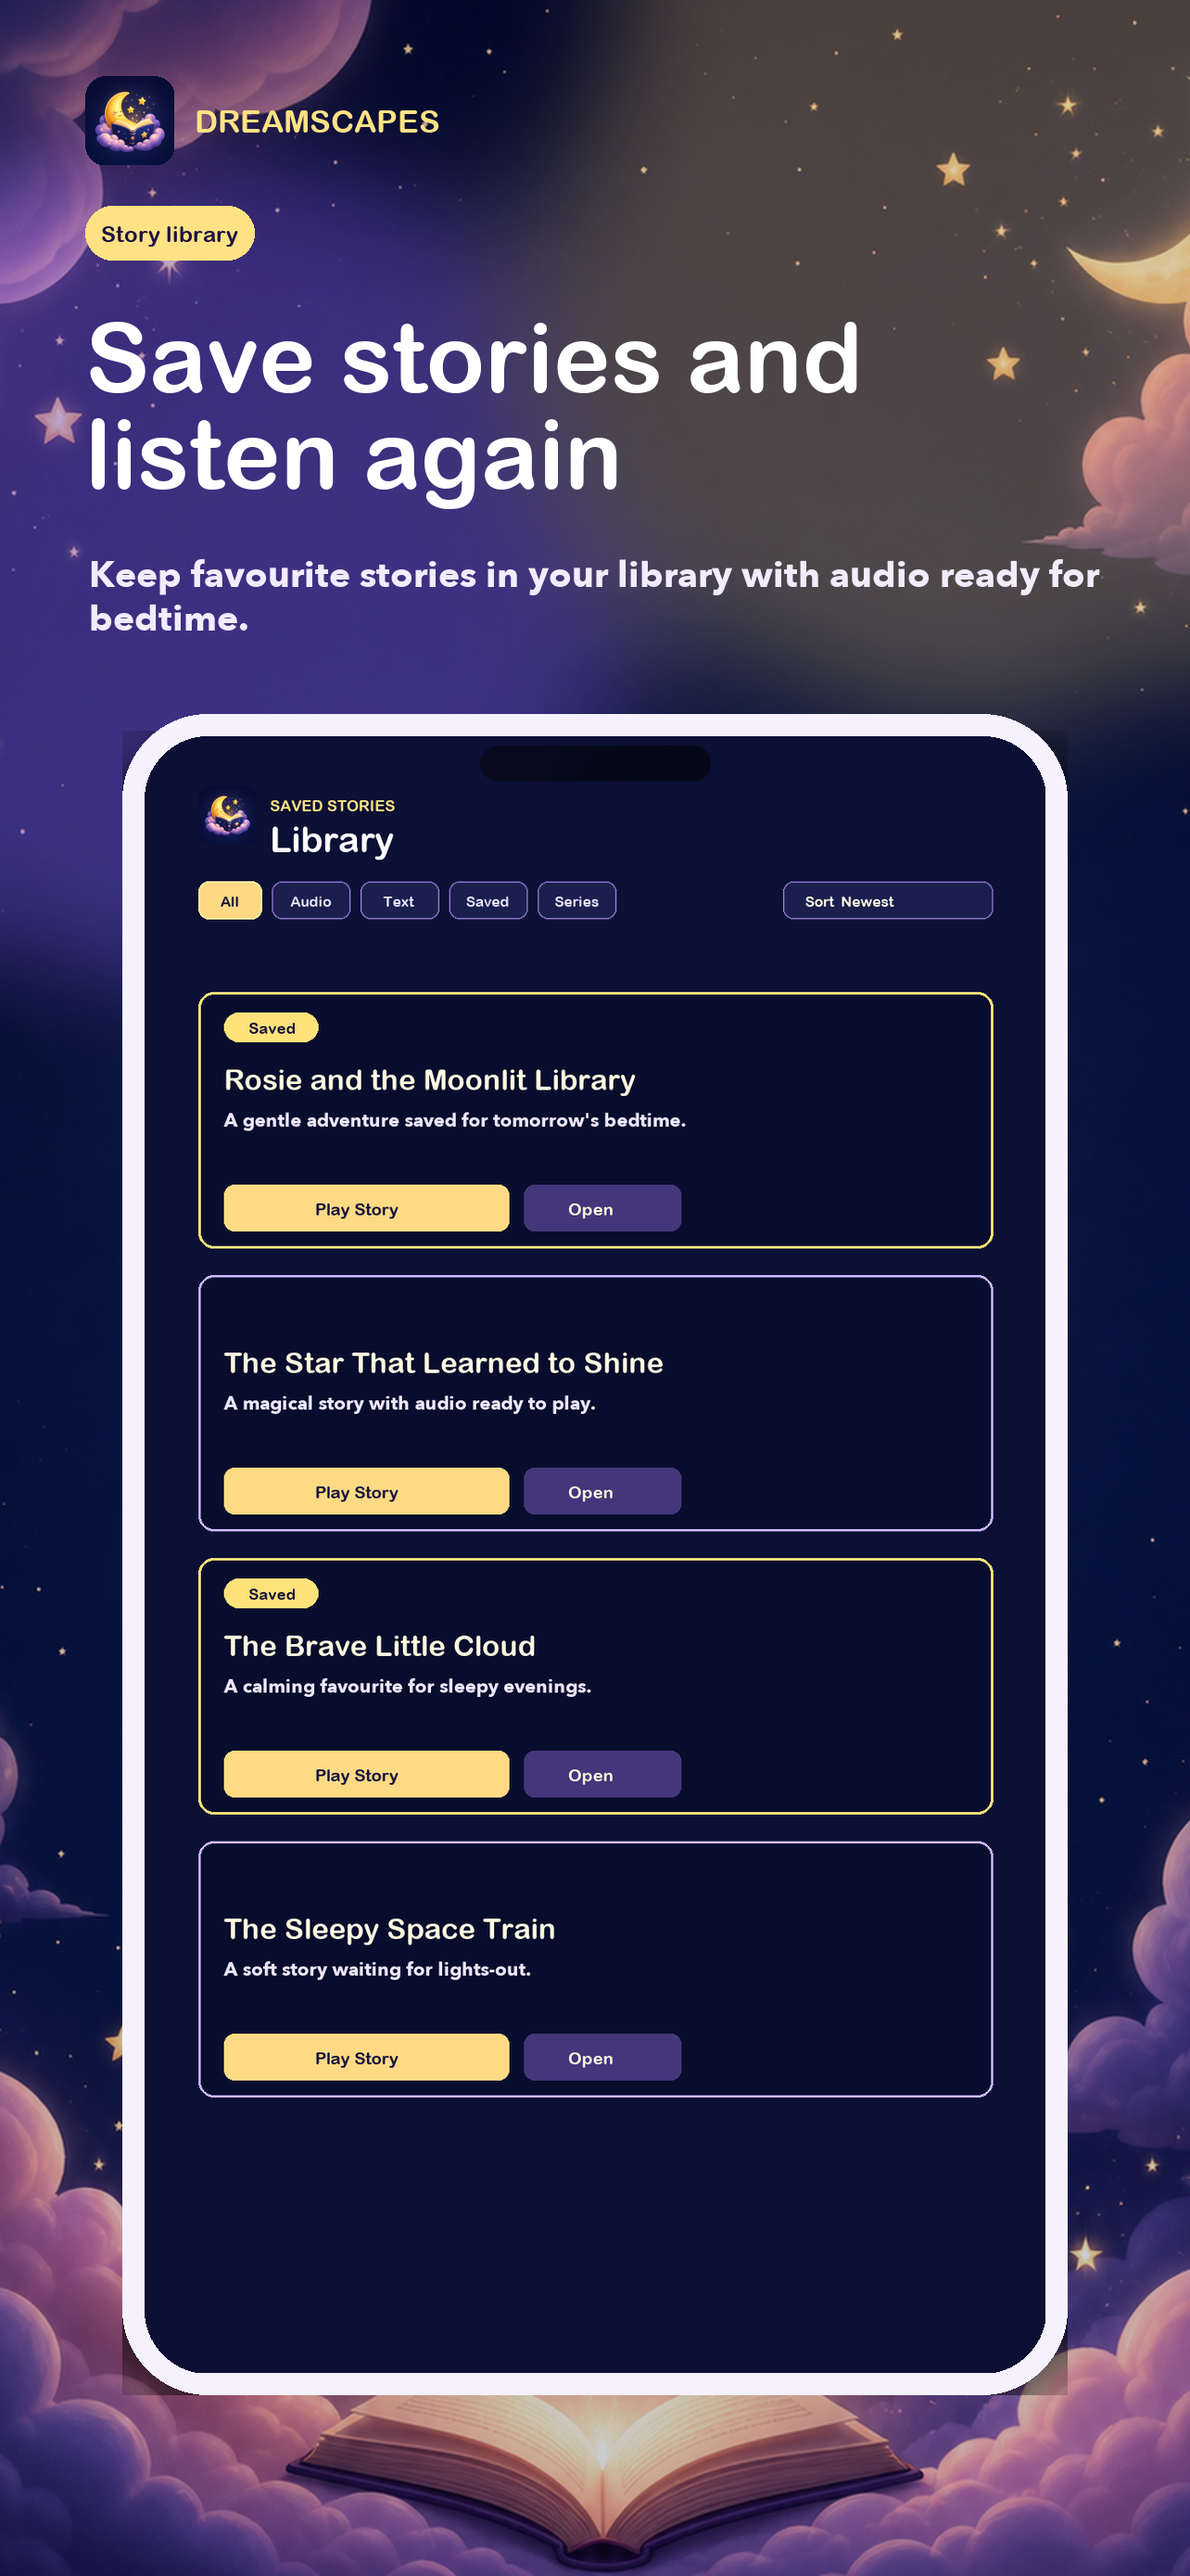
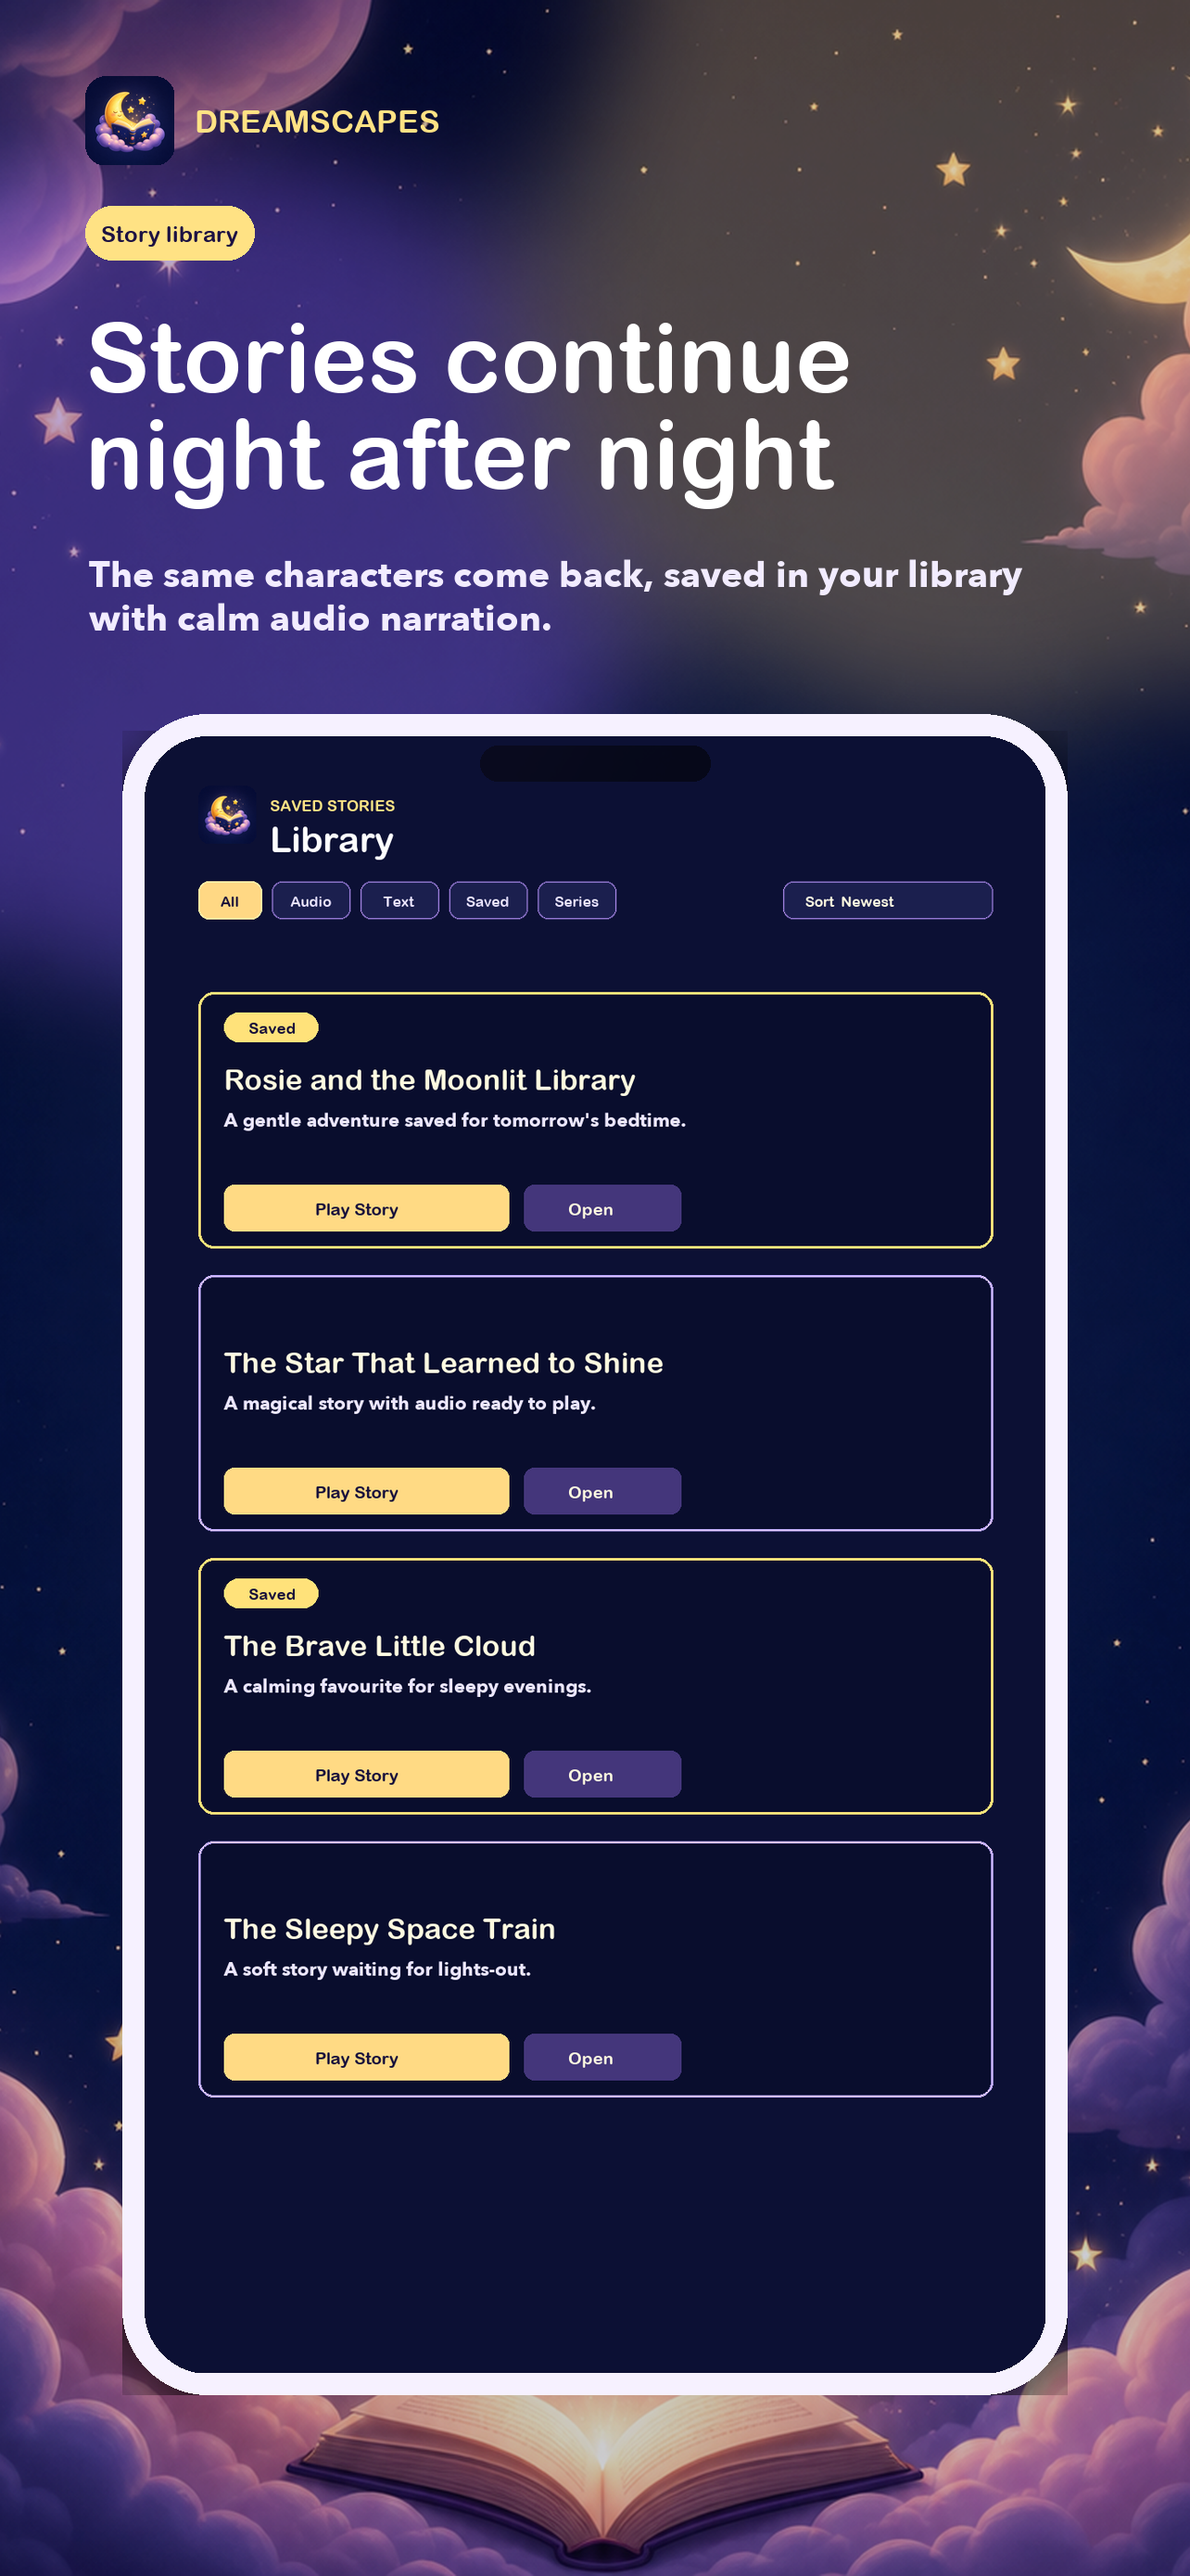
Lead the store screenshots with the problem, not the features
The headlines described what the app has - "Personalised stories made in
moments", "Made just for them" - to a parent who has not yet been given a
reason to care. They now open with the problem, and with the one thing none of
the twenty-five competing story apps can offer: a real story with no account,
which only became true this week.

Screenshot three carries continuity, which is the genuine differentiator and
was not mentioned anywhere in any of the three sets.

All three platforms now say the same thing; they had drifted into three
different voices. Every line was measured against its own canvas first -
"Stories that continue" overflowed the Play canvas at 105% and sat at 96% on
iOS, which is why it looked pinned to the edge.

Nothing here claims anything about sleep, anxiety, development or literacy.

Changed region(s): [[0.0623, 0.1238, 0.9034, 0.2477]]

diff --git a/scripts/build-ipad-13-screenshots.py b/scripts/build-ipad-13-screenshots.py
@@ -24,29 +24,29 @@ SCREENS = [
     (
         "01-personalised-bedtime-stories.png",
         "01-home.png",
-        "Personalised bedtime\nstories for children",
-        "Create warm, magical stories around your child's name, interests and imagination.",
-        "Made for families",
+        "Never run out of\na bedtime story",
+        "Your first story is free, no account needed. Just their name and what they love.",
+        "Free to try",
     ),
     (
         "02-create-the-perfect-story.png",
         "02-story-builder.png",
-        "Build tonight's story\nin a few taps",
-        "Choose the duration, mood, voice, language and gentle lesson before the magic begins.",
+        "Made for tonight,\nin about a minute",
+        "Their name, their age, what they love, and the adventure they are in the mood for.",
         "Story builder",
     ),
     (
         "03-save-and-listen-again.png",
         "03-library.png",
-        "Save favourites\nand play audio",
-        "Keep bedtime stories in a calm library, ready to read or listen to again.",
+        "Stories continue\nnight after night",
+        "The same characters and world come back, with calm audio ready for bedtime.",
         "Story library",
     ),
     (
         "04-parent-friendly-controls.png",
         "04-parent-account.png",
-        "Simple controls\nfor parents",
-        "Manage child profiles, plans, story limits and saved adventures in one place.",
+        "You are always\nin control",
+        "Set topics to avoid, read every story first, and manage plans in one calm place.",
         "Parent account",
     ),
 ]

diff --git a/scripts/build-ios-screenshots.py b/scripts/build-ios-screenshots.py
@@ -25,29 +25,29 @@ SCREENS = [
     (
         "01-personalised-bedtime-stories.png",
         "01-home.png",
-        "Personalised stories\nmade in moments",
-        "Create magical bedtime adventures with your child's name, mood and favourite ideas.",
-        "Made for bedtime",
+        "Never run out of\na bedtime story",
+        "Your first story is free, no account needed. Just their name and what they love.",
+        "Free to try",
     ),
     (
         "02-create-the-perfect-story.png",
         "02-story-builder.png",
-        "Choose the story\nyou want tonight",
-        "Pick the duration, voice, language, mood, profiles and gentle lesson.",
+        "Made for tonight,\nin about a minute",
+        "Their name, their age, what they love, and the adventure they are in the mood for.",
         "Story builder",
     ),
     (
         "03-listen-with-audio.png",
         "03-library.png",
-        "Save stories and\nlisten again",
-        "Keep favourite stories in your library with audio ready for bedtime.",
+        "Stories continue\nnight after night",
+        "The same characters come back, saved in your library with calm audio narration.",
         "Story library",
     ),
     (
         "04-parent-friendly-account.png",
         "04-parent-account.png",
-        "Built for parents\nand little dreamers",
-        "Manage profiles, plans, story limits and saved adventures in one calm place.",
+        "You are always\nin control",
+        "Set topics to avoid, read every story first, and manage plans in one calm place.",
         "Parent account",
     ),
 ]

diff --git a/scripts/build-play-screenshots.py b/scripts/build-play-screenshots.py
@@ -19,29 +19,29 @@ SCREENS = [
     (
         "01-personalised-stories.jpg",
         "01-home.png",
-        "Made just\nfor them",
-        "Personalised adventures for bedtime or anytime",
+        "Never run out of\na bedtime story",
+        "Your first story is free, no account needed",
         560,
     ),
     (
         "02-story-builder.jpg",
         "02-story-builder.png",
-        "You choose.\nMagic begins.",
-        "Pick the mood, duration, profiles and gentle lesson",
+        "Made for tonight,\nin about a minute",
+        "Their name, their age and what they love",
         0,
     ),
     (
         "03-story-library.jpg",
         "03-library.png",
-        "Their stories.\nAlways ready.",
-        "Save favourites and revisit every magical adventure",
+        "Stories continue\nnight after night",
+        "The same characters come back, night after night",
         0,
     ),
     (
         "04-parent-account.jpg",
         "04-parent-account.png",
-        "Safe, saved\nand in sync.",
-        "Keep stories, audio and child profiles across devices",
+        "You are always\nin control",
+        "Set topics to avoid and read every story first",
         620,
     ),
 ]
